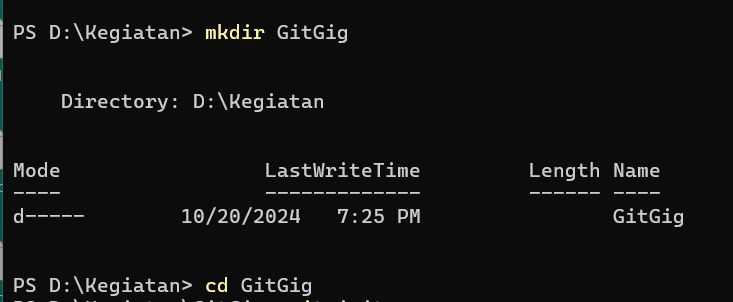
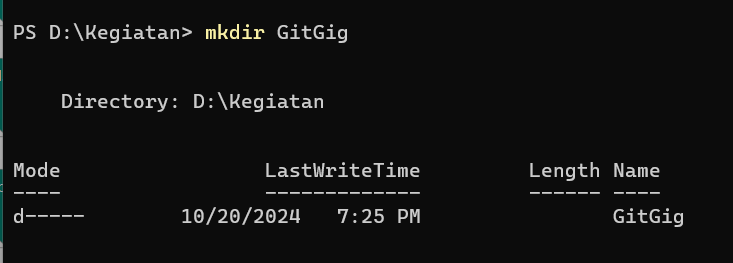
modified:   README.md 	new file:   gambar/addori.png 	new file:   gambar/addreame.png 	new file:   gambar/branchm.png 	modified:   gambar/buat folder.png 	deleted:    gambar/buat readme.png 	new file:   gambar/commit.png 	new file:   gambar/ecoream.png 	new file:   gambar/ginit.png 	deleted:    gamb

diff --git a/README.md b/README.md
@@ -7,24 +7,48 @@
 
 ## Langkah-Langkah
 
-1. Langkah awal untuk menggunakan git adalah untuk mengisi username dan email.
+1. Langkah awal untuk menggunakan [Git](https://git-scm.com/) adalah mengisi username dan email.
 Seperti ini
+
 ![alt text](<gambar/langkah awal.png>)
-2. Buat folder.
+
+2. Kemudian buatlah sebuah folder.
+
 ![alt text](<gambar/buat folder.png>)
-3. Jadikan folder tersebut repository lokal.
-![alt text](<gambar/git init.png>)
-4. Buat file README.
-![alt text](<gambar/buat readme.png>)
-5. Tambahkan file README ke repo. 
-![alt text](<gambar/nambahin file.png>)
-6. Simpan perubahan kedalam database repository lokal.
-![alt text](<gambar/p commit.png>)
-7. Buat repository di [Github](https://github.com/).
+
+3. Masuk ke folder tersebut.
+
+![alt text](gambar/pindahfolder.png)
+
+4. Jadikan folder itu repository lokal.
+
+![alt text](gambar/ginit.png)
+
+5. Buat file README.md[README.md](README.md).
+
+![alt text](gambar/ecoream.png)
+
+6. Tambahkan file README.md[README.md](README.md) ke [Git](https://git-scm.com/). 
+
+![alt text](gambar/addreame.png)
+
+7. Simpan perubahan kedalam database repository lokal.
+
+![alt text](gambar/commit.png)
+
+8. Buat repository di [Github](https://github.com/).
+
 ![alt text](<gambar/buat repo di github.png>)
-8. Tambahkan alamat repository [Github](https://github.com/).
-![alt text](<gambar/terakhir ke 2.png>)
-9. Kirim perubahan yang dilakukan pada repository lokal ke repository [Github](https://github.com/).
-![alt text](<gambar/terakhir ke 1.png>)
-10. Hasilnya
+
+9. Tambahkan alamat repository [Github](https://github.com/).
+
+![alt text](gambar/addori.png)
+
+10. Kirim perubahan yang dilakukan pada repository lokal ke repository [Github](https://github.com/).
+
+![alt text](gambar/pushrepo.png)
+
+11. Hasilnya di [Github](https://github.com/).
+
 ![alt text](gambar/hasil.png)
+
